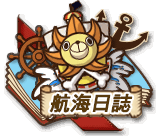
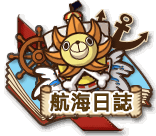
new png tw

Changed region(s): [[0.3077, 0.6471, 0.8718, 0.8529]]

diff --git a/index.html b/index.html
@@ -1270,7 +1270,7 @@
         <div align="center" style="position: absolute; left: 114px; top: 14286px; width: 113px; height: 18px; font-family: &quot;Arial Black&quot;, Gadget, sans-serif; font-size: 18px; color: white; text-shadow: 1px 1px black, -1px -1px black, -1px 1px black, 1px -1px black;">No.627</div>
         <div style="position: absolute; left: 227px; top: 14201px"><img src="png/tw/character_0659_t1.png" data-title="" data-name="戴魯斯通" data-skill="png/tw/skill_name_8106.png" data-portrait="png/tw/character_0659_c1.png" class="thumbnail"></div>
         <div align="center" style="position: absolute; left: 227px; top: 14286px; width: 113px; height: 18px; font-family: &quot;Arial Black&quot;, Gadget, sans-serif; font-size: 18px; color: white; text-shadow: 1px 1px black, -1px -1px black, -1px 1px black, 1px -1px black;">No.628</div>
-        <div style="position: absolute; left: 340px; top: 14201px"><img src="png/jp/character_0658_t1.png" data-title="フランキー一家棟梁" data-name="フランキー" data-skill="png/jp/skill_name_8105.png" data-portrait="png/tw/character_0658_c1.png" class="thumbnail"></div>
+        <div style="position: absolute; left: 340px; top: 14201px"><img src="png/tw/character_0658_t1.png" data-title="フランキー一家棟梁" data-name="フランキー" data-skill="png/jp/skill_name_8105.png" data-portrait="png/tw/character_0658_c1.png" class="thumbnail"></div>
         <div align="center" style="position: absolute; left: 340px; top: 14286px; width: 113px; height: 18px; font-family: &quot;Arial Black&quot;, Gadget, sans-serif; font-size: 18px; color: white; text-shadow: 1px 1px black, -1px -1px black, -1px 1px black, 1px -1px black;">No.629</div>
         <div style="position: absolute; left: 453px; top: 14201px"><img src="png/tw/character_0654_t1.png" data-title="CIPHER POL No.9" data-name="卡古" data-skill="png/tw/motion_0654_cpnine_kaku_skill_name.png" data-portrait="png/tw/character_0654_c1.png" class="thumbnail"></div>
         <div align="center" style="position: absolute; left: 453px; top: 14286px; width: 113px; height: 18px; font-family: &quot;Arial Black&quot;, Gadget, sans-serif; font-size: 18px; color: white; text-shadow: 1px 1px black, -1px -1px black, -1px 1px black, 1px -1px black;">No.630</div>

diff --git a/index-tw.html b/index-tw.html
@@ -1270,7 +1270,7 @@
         <div align="center" style="position: absolute; left: 114px; top: 14286px; width: 113px; height: 18px; font-family: &quot;Arial Black&quot;, Gadget, sans-serif; font-size: 18px; color: white; text-shadow: 1px 1px black, -1px -1px black, -1px 1px black, 1px -1px black;">No.627</div>
         <div style="position: absolute; left: 227px; top: 14201px"><img src="png/tw/character_0659_t1.png" data-title="" data-name="戴魯斯通" data-skill="png/tw/skill_name_8106.png" data-portrait="png/tw/character_0659_c1.png" class="thumbnail"></div>
         <div align="center" style="position: absolute; left: 227px; top: 14286px; width: 113px; height: 18px; font-family: &quot;Arial Black&quot;, Gadget, sans-serif; font-size: 18px; color: white; text-shadow: 1px 1px black, -1px -1px black, -1px 1px black, 1px -1px black;">No.628</div>
-        <div style="position: absolute; left: 340px; top: 14201px"><img src="png/tw/character_none.png" data-title="フランキー一家棟梁" data-name="" data-skill="png/tw/character_9999_t1.png" data-portrait="png/tw/character_0658_c1.png" class="thumbnail"></div>
+        <div style="position: absolute; left: 340px; top: 14201px"><img src="png/tw/character_0658_t1.png" data-title="フランキー一家棟梁" data-name="" data-skill="png/tw/character_9999_t1.png" data-portrait="png/tw/character_0658_c1.png" class="thumbnail"></div>
         <div align="center" style="position: absolute; left: 340px; top: 14286px; width: 113px; height: 18px; font-family: &quot;Arial Black&quot;, Gadget, sans-serif; font-size: 18px; color: white; text-shadow: 1px 1px black, -1px -1px black, -1px 1px black, 1px -1px black;">No.629</div>
         <div style="position: absolute; left: 453px; top: 14201px"><img src="png/tw/character_0654_t1.png" data-title="CIPHER POL No.9" data-name="卡古" data-skill="png/tw/motion_0654_cpnine_kaku_skill_name.png" data-portrait="png/tw/character_0654_c1.png" class="thumbnail"></div>
         <div align="center" style="position: absolute; left: 453px; top: 14286px; width: 113px; height: 18px; font-family: &quot;Arial Black&quot;, Gadget, sans-serif; font-size: 18px; color: white; text-shadow: 1px 1px black, -1px -1px black, -1px 1px black, 1px -1px black;">No.630</div>
